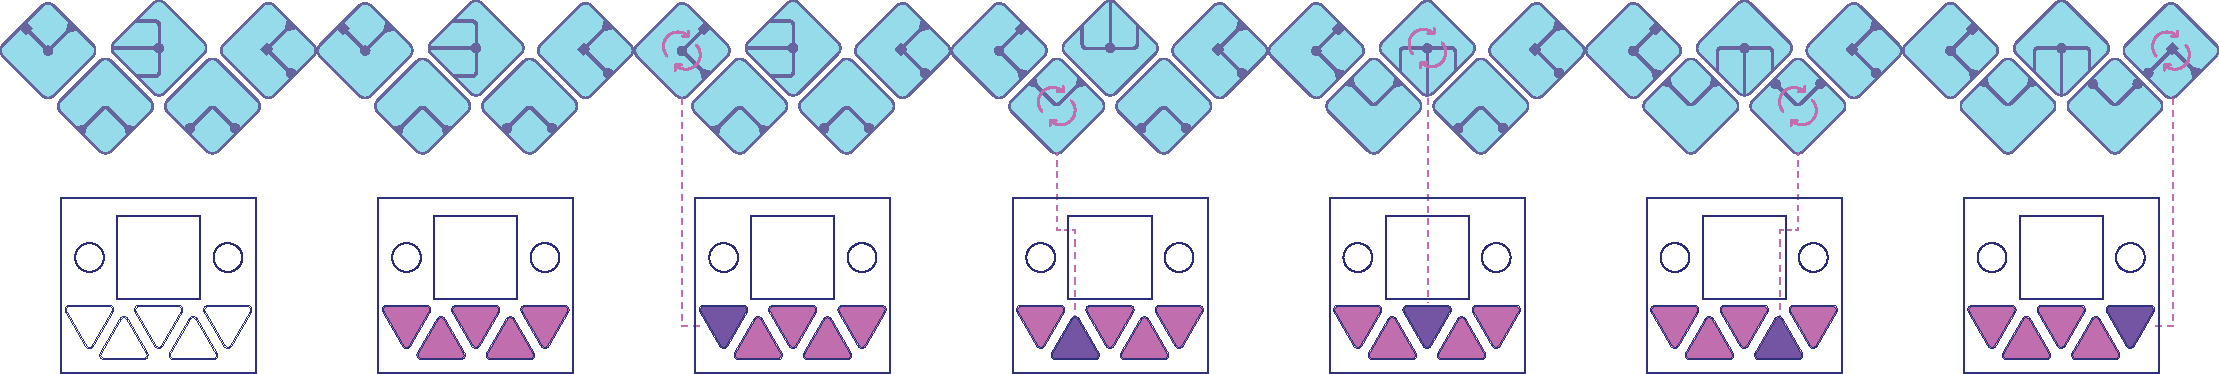
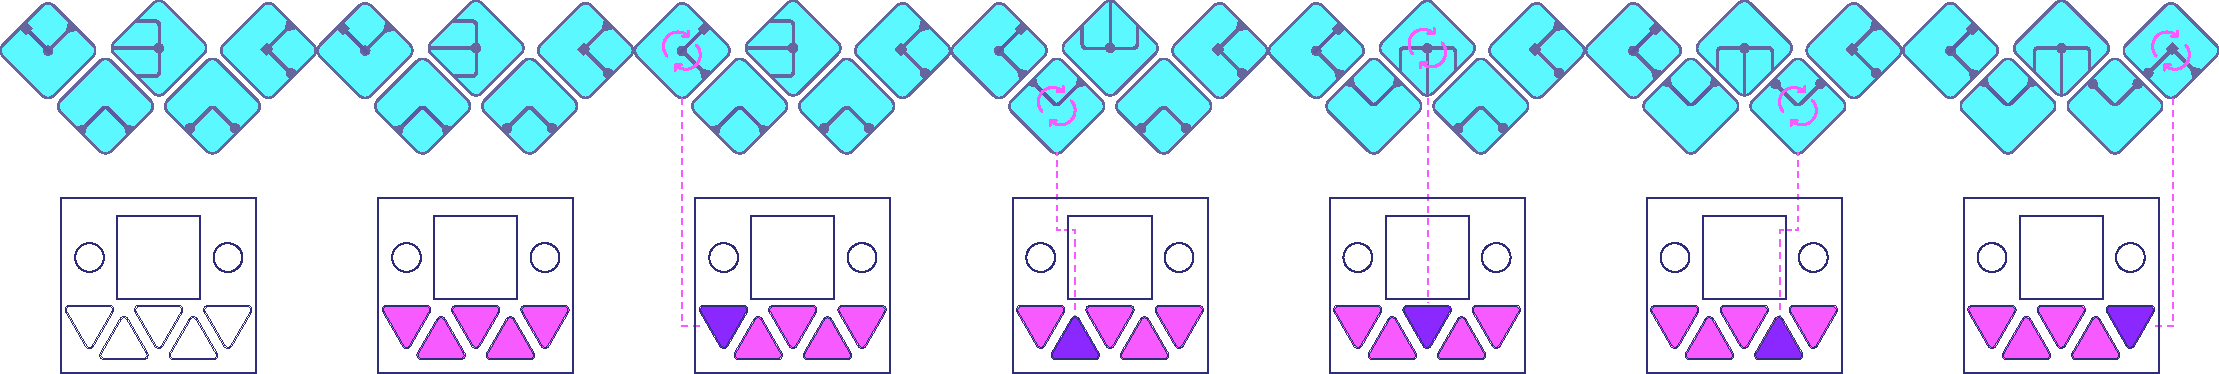
update preview minigame assets

diff --git a/scenes/BaseScene.py b/scenes/BaseScene.py
@@ -84,6 +84,9 @@ class SceneBase:
         
         self.popup_timerends_description = utils.Text("leave the machine de inmediati!", self.normal_font)
         self.popup_timerends_description.SetPosition(constants.VIEWPORT_CENTER_X, 506)
+        
+        self.loading_label = utils.Text("loading",self.subtitle_font,color=constants.PALLETE_BACKGROUND_TITLE_BLUE)
+        self.loading_label.SetPosition(constants.VIEWPORT_CENTER_X, 330)
         # -- end popup elements
 
         # sfx and audio
@@ -128,9 +131,11 @@ class SceneBase:
 
     def RenderCortain(self, screen):
         if self.transition_cortain:
-            pygame.draw.rect(screen, [0x20, 0xF4, 0xFE], (400, 210, 480, 300))
-            pygame.draw.rect(screen, [0x00, 0x60, 0xFF], (400, 210, 480, 300), 2)
-            pygame.draw.rect(screen, [0x0, 0x60, 0xFF], (450, 360, self.height_cortain*380, 50))
+            interval = (int(self.height_cortain*15))/15
+            pygame.draw.rect(screen, [0x20, 0xF4, 0xFE], (400, 270, 480, 180))
+            pygame.draw.rect(screen, [0x00, 0x60, 0xFF], (400, 270, 480, 180), 2)
+            pygame.draw.rect(screen, [0x0, 0x60, 0xFF], (450, 360, interval*380, 50))
+            self.loading_label.render(screen)
 
     # in milliseconds
     def format_time(time):

diff --git a/scenes/edition/EditEventScene.py b/scenes/edition/EditEventScene.py
@@ -581,13 +581,13 @@ class EditEventScene(SceneBase):
 
         self.minigame_preview = utils.Sprite(
             'assets/minigame_icons/'+selected_minigame["preview"],
-            800,
-            200
+            selected_minigame["preview_x"],
+            selected_minigame["preview_y"]
         )
-        self.minigame_preview.frameDelay = 0.75
-        self.minigame_preview.frameWidth = 317
-        self.minigame_preview.frameHeight = 374
-        self.minigame_preview.animationFrames = [0,1,2,3,4,5,6]
+        self.minigame_preview.frameDelay = selected_minigame["preview_rate"]
+        self.minigame_preview.frameWidth = selected_minigame["preview_width"]
+        self.minigame_preview.frameHeight = selected_minigame["preview_height"]
+        self.minigame_preview.animationFrames = selected_minigame["preview_frames"]
         self.minigame_preview.setAnchor(0,0)
 
         self.percentage = 0

diff --git a/scenes/optimizations/__init__.py b/scenes/optimizations/__init__.py
@@ -10,14 +10,26 @@ minigames = [{
     "title": "focus",
     "description": "fix imperfections to augment news reach in high society",
     "goal": "your goal description for focus",
-    "preview": "focus_preview.png"
+    "preview": "focus_preview.png",
+    "preview_width": 317,
+    "preview_height": 374,
+    "preview_frames": [0,1,2,3,4,5,6],
+    "preview_x": 816,
+    "preview_y": 227,
+    "preview_rate": 0.75
 },{
     "scene": "Scanning",
     "icon": "scanning.png",
     "title": "scanning",
     "description": "modulate voices tones to reinforce the produced opinions",
     "goal": "your goal description for Scanning",
-    "preview": "focus_preview.png"
+    "preview": "scanning_preview.png",
+    "preview_width": 359,
+    "preview_height": 286,
+    "preview_frames": [0,1,2,3,4,5,6],
+    "preview_x": 795,
+    "preview_y": 262,
+    "preview_rate": 1.2
 }]
 shuffle(minigames)
 

diff --git a/app.py b/app.py
@@ -75,7 +75,7 @@ mouse_last_positions = [0, 0]
 def run_game(width, height, fps, starting_scene):
     pygame.mixer.init(frequency=48000, size=-16, channels=2, buffer=4096)
     pygame.init()
-    pygame.mouse.set_visible(True)
+    pygame.mouse.set_visible(False)
     screen = pygame.display.set_mode((width, height), 0)
 
     tunners = mimo.get_tunners_position()

diff --git a/scenes/edition/BeginEventScene.py b/scenes/edition/BeginEventScene.py
@@ -95,7 +95,7 @@ class BeginEventScene(SceneBase):
         if self.closing: return
         for event in events:
             if event.type == pygame.KEYDOWN and event.key == pygame.K_i:
-                self.CloseEvent()
+                self.CloseEvent(0.5)
                 self.AddTrigger(0.51, self, 'SwitchToScene', "Edit")
 
     def Update(self, dt):
